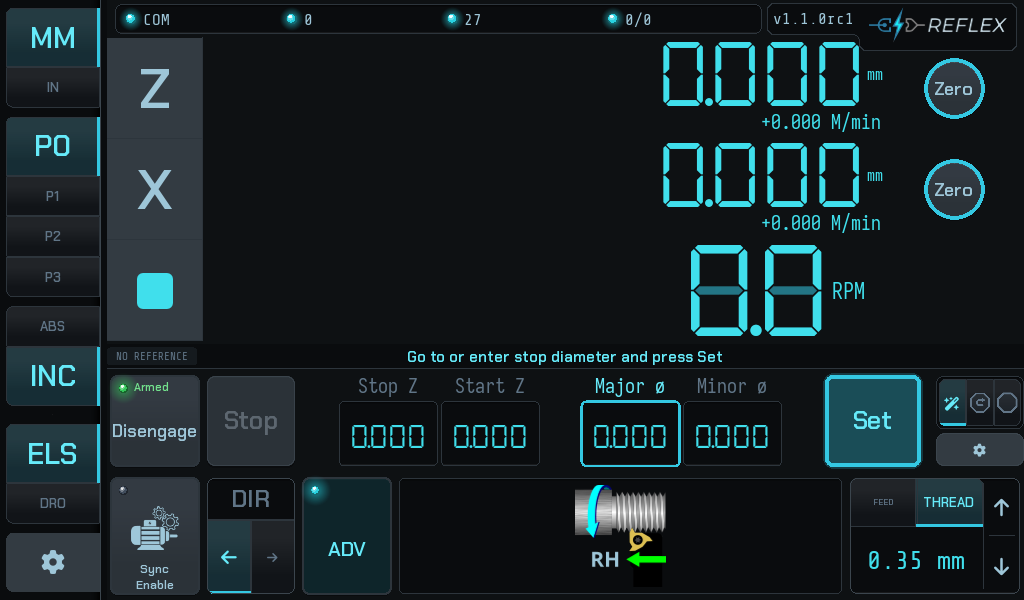
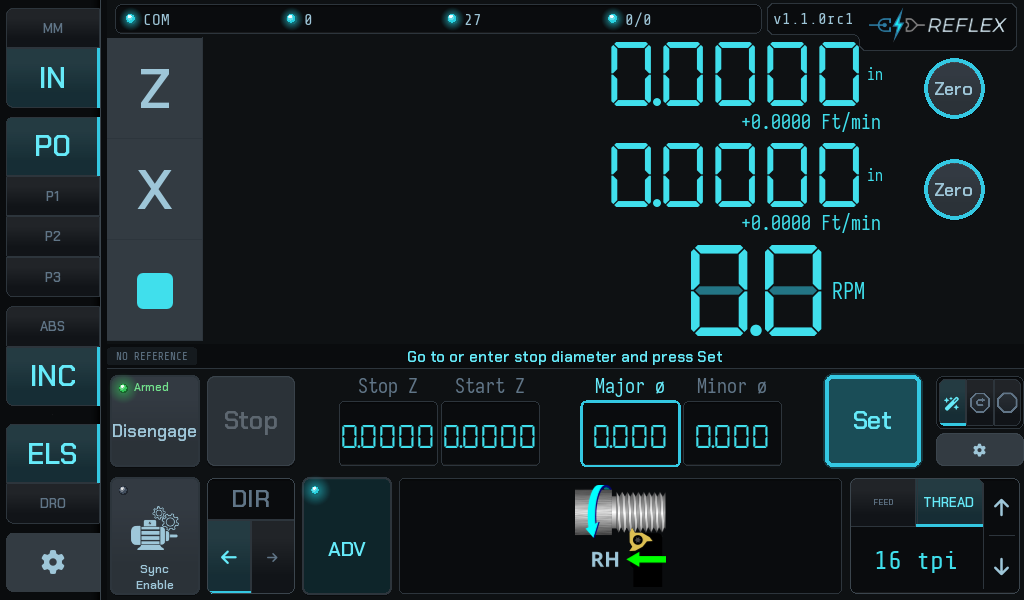
docs: render in inches, matching the machine
elspi has current_format IN; every screenshot was MM. Same shape as the
wizard mode and the pattern wand before it: this capture represents a
PROVISIONED LATHE, and every setting it does not name arrives as a class
default nobody chose. current_format defaults to MM.

The feed tables move with the units -- an inch DRO over a metric pitch is
nobody's machine. 16 TPI, the thread the belt-off verification run cut;
0.005 in/rev for the feed frame.

TWO LATENT BUGS FELL OUT OF THE SWITCH, both invisible while the display
happened to be metric:

* `mm_per_step = fsm.steps_to_display(1)` is not millimetres. It returns
  DISPLAY units, so under inches `STEP_OVER_MM / mm_per_step` computed a
  step count 25.4x too large, and the offset frames rendered "Widened by:
  0.0500 in" -- 0.800 of a pitch, illustrating the bound instead of the
  ordinary case.
* `PITCH_MM = 1.5` was pinned to Thread MM index 8. The rig now cuts 16
  TPI (1.5875 mm), so the constant was wrong the moment the table
  changed, and it fed the strip frame's pitch fraction.

Both are gone rather than converted. A thread-phase offset IS a fraction
of a pitch -- that is what the firmware holds and what the chip shows --
so the rig's step-over is now STEP_OVER_FRACTION = 0.032, unit-free.
0.002 in at 16 TPI. Neither conflation can return, because there is no
longer a unit to get wrong.

Prose follows the frames: numbers QUOTED from a screenshot were updated,
[…]

diff --git a/ui/previews/preview_walkthrough_shots.py b/ui/previews/preview_walkthrough_shots.py
@@ -102,8 +102,20 @@ AXIS_NAMES = ("Z", "X", "S")
 # 1/2-1/3-1/4 pitch these shots used to render: those are multi-start amounts,
 # most of the way round to the next groove, and the framing they came from was
 # corrected 2026-08-23.
-STEP_OVER_MM = 0.05
-PITCH_MM = 1.5             # the rig's own thread pitch, set in main() below
+# The rig's step-over, AS A FRACTION OF ONE PITCH. Unit-free on purpose: a
+# thread-phase offset is a fraction of a pitch, which is what the firmware holds
+# and what the chip shows, so nothing here has to know whether the machine is
+# displaying millimetres or inches.
+#
+# It used to be STEP_OVER_MM = 0.05 alongside PITCH_MM = 1.5, and both were
+# wrong the moment anything changed. `steps_to_display` returns DISPLAY units,
+# so dividing a millimetre constant by it computed a step count 25.4x too large
+# under inches; and PITCH_MM was pinned to a metric feed table the rig no longer
+# uses. Neither could be noticed while the display happened to be metric.
+#
+# 0.032 of a pitch is 0.002 in at 16 TPI -- an ordinary widening step-over, and
+# small enough that the frames illustrate the normal case rather than the bound.
+STEP_OVER_FRACTION = 0.032
 Z_BASELINE = 12000         # arbitrary but realistic raw encoder counts
 Z_COUNTS_PER_MM = 200      # elspi's Z scale: one count is 5 um
 SPINDLE_BASELINE = 8192
@@ -289,7 +301,7 @@ def section_strip():
     settle()
     shot("wt_gutter_baseline", "before any offset: reference chip only")
 
-    set_strip_offset(2 * STEP_OVER_MM / PITCH_MM)
+    set_strip_offset(2 * STEP_OVER_FRACTION)
     settle()
     record("advanced-bar status gutter",
            phase_offset_text=app.els_uic.phase_offset_text,
@@ -638,11 +650,14 @@ def section_phase_offset():
         print(f"  REFUSED [{tag}] {popup.message!r}")
 
     pitch = fsm.thread_pitch_steps()
-    mm_per_step = fsm.steps_to_display(1)
-    step = int(round(STEP_OVER_MM / mm_per_step)) if mm_per_step else 1
+    # STEPS, from a fraction of the pitch -- no unit conversion, so this cannot
+    # drift when the display units change. The distance is derived FROM the
+    # step count for printing, not the other way round.
+    step = max(1, int(round(pitch * STEP_OVER_FRACTION)))
     print(f"  is_threading={app.els_uic.is_threading}  "
-          f"thread pitch={pitch:.1f} steps  {STEP_OVER_MM} mm step-over = "
-          f"{step} steps")
+          f"thread pitch={pitch:.1f} steps  step-over "
+          f"{STEP_OVER_FRACTION:.3f} x pitch = {step} steps = "
+          f"{fsm.steps_to_display(step):.4f} display units")
 
     pop = PhaseOffsetPopup()
     pop.open()
@@ -671,7 +686,8 @@ def section_phase_offset():
     pop._refresh_total()
     pop.entry = float(fsm.steps_to_display(step))
     settle(6)
-    record(f"offset / entry, groove widened by {STEP_OVER_MM} mm",
+    record(f"offset / entry, groove widened by "
+           f"{STEP_OVER_FRACTION:.3f} x pitch",
            state=pop.state, total=pop.total_text, fraction=pop.fraction_text,
            entry_text=pop.entry_text, message=pop.message)
     shot("wt_offset_entry_total")
@@ -1072,7 +1088,16 @@ def _arm(_dt):
     app.servo.leadScrewPitchSteps = 2000
     # 1.50 mm pitch from the real THREAD_MM table: 600 leadscrew steps to the
     # pitch, so a 0.05 mm step-over is exactly 20 steps.
-    els_bar.set_feed_ratio("Thread MM", 8)
+    # INCHES, matching the machine and the README captures -- the guide uses
+    # frames from both and must not mix units. 16 TPI (Thread IN index 9),
+    # the thread the belt-off verification run cut.
+    #
+    # The rig's step-over is a FRACTION OF PITCH (STEP_OVER_FRACTION), so it
+    # does not care what the display units are -- which is the point, since a
+    # millimetre constant divided by steps_to_display() silently became 25.4x
+    # too large the first time this ran in inches.
+    app.formats.current_format = "IN"
+    els_bar.set_feed_ratio("Thread IN", 9)
 
     def _stoponly(_d):
         # AFTER the mode swap mounts the bar. Stop-only is the mode the machine

diff --git a/ui/scripts/capture_readme_screenshots.py b/ui/scripts/capture_readme_screenshots.py
@@ -421,7 +421,9 @@ def _capture(_dt):
         # setter so the pitch display, the ratio and is_threading all follow.
         _set_mode(bar, wizard=False, retract=False)
         home = app.manager.get_screen("home")
-        home.els_bar.set_feed_ratio("Feed MM", 6)
+        # 0.005 in/rev -- an ordinary finishing feed. Imperial table,
+        # because an inch DRO over a metric feed rate is nobody's machine.
+        home.els_bar.set_feed_ratio("Feed IN", 4)
         _settle()
         assert not app.els_uic.is_threading, (
             "feed frame is still in a THREADING table -- is_threading gates "
@@ -430,7 +432,9 @@ def _capture(_dt):
 
         # Back to a threading table: later frames and any future step should
         # not inherit feed mode from this one.
-        home.els_bar.set_feed_ratio("Thread MM", 6)
+        # Back to a threading table: 16 TPI, the thread the belt-off
+        # verification run cut on the real machine.
+        home.els_bar.set_feed_ratio("Thread IN", 9)
         _settle()
         assert app.els_uic.is_threading, "failed to return to a threading table"
 
@@ -486,6 +490,10 @@ def _arm(_dt):
     # default True and asserting the button is gone PROVES the use-case gate
     # instead of hiding behind the setting.
     app.formats.show_wizard = True
+
+    # INCHES, matching the machine (elspi: current_format IN). The default is
+    # MM, and a default is not a decision -- see the note above.
+    app.formats.current_format = "IN"
     # Name representative axes (a fresh config seeds 4 unnamed "?" axes).
     for i, name in enumerate(AXIS_NAMES):
         if i < len(app.axes):
@@ -499,6 +507,9 @@ def _arm(_dt):
     # Navigate to home, switch to ELS mode, expand the advanced bar.
     app.manager.goto("home")
     app.set_mode(MODE_ELS)
+    # A pitch every frame can show: 16 TPI. Set before the first capture so the
+    # headline shots do not carry a fresh config's metric default.
+    app.manager.get_screen("home").els_bar.set_feed_ratio("Thread IN", 9)
     app.manager.get_screen("home").els_bar.enable_advanced = True
     # Mode swap is deferred via Clock (see HomePage.change_mode); give it time
     # for the ELS layout to mount before capturing. The modes themselves are

diff --git a/docs/guide/picking-up-a-thread.md b/docs/guide/picking-up-a-thread.md
@@ -65,9 +65,9 @@ Two conditions have to hold at once before **Confirm** arms:
 - **Z holds** within tolerance of the position you seated it at.
 - **The spindle is still** — shown as a settling percentage while it decays.
 
-The readout gives both live, in your display units. A ±0.015 mm tolerance on a
-200 count/mm scale is three counts: this is a tight check, and it is meant to
-be. From the seat onward, the carriage position *is* the reference.
+The readout gives both live, in your display units. The tolerance shown —
+±0.0006 in here — is **three scale counts**: this is a tight check, and it is
+meant to be. From the seat onward, the carriage position *is* the reference.
 
 ## 3 — If the carriage drifts
 
@@ -79,6 +79,9 @@ cut. If Z leaves tolerance, the screen switches to a re-seat:
 > The carriage has crept off its seated position. Nudge it **back** by hand —
 > the **anti-cutting** direction, the same way you seated it — until it seats
 > firmly, then press Re-seated.
+
+The frame above shows +0.0022 in of drift against a ±0.0006 in tolerance: under
+three thousandths, and already too much.
 
 A re-seat that lands within tolerance returns you to alignment, and it has
 positively proven the Z chain is reading — which is worth something on its own.

diff --git a/docs/guide/widening-a-groove.md b/docs/guide/widening-a-groove.md
@@ -17,8 +17,9 @@ rows at the bottom of the ELS settings, beside
 ## What it does
 
 The controller carries a **thread-phase offset**: a distance, expressed along
-the thread, that shifts where the tool enters the helix. Set 0.05 mm and the
-next pass cuts 0.05 mm along from the original groove, widening it by that much.
+the thread, that shifts where the tool enters the helix. Set 0.002 in and the
+next pass cuts 0.002 in along from the original groove, widening it by that
+much.
 
 Every step-over goes the same way — you open one side of the groove and keep
 going — so the running total on screen **is the widening**: the distance the

diff --git a/docs/setup/axes-and-scales.md b/docs/setup/axes-and-scales.md
@@ -57,8 +57,8 @@ the label on the scale. A label error and a wrong ratio look identical on
 screen: both give a readout that moves smoothly and reads plausibly, and they
 differ only by a factor you will notice at the part.
 
-A long travel makes the error obvious — over 10 mm a 5% error is 0.5 mm, which
-no dial indicator will hide.
+A long travel makes the error obvious — over half an inch, a 5% error is
+0.025 in, which no dial indicator will hide.
 
 !!! tip "Direction is part of the calibration"
     A scale reading the right magnitude in the wrong direction produces a

diff --git a/docs/guide/feeding-to-a-shoulder.md b/docs/guide/feeding-to-a-shoulder.md
@@ -5,9 +5,9 @@ machine does, and it is worth doing once before you thread anything.
 
 ![Stop-only in FEED mode](../screenshots/home_els_feed.png)
 
-`FEED` is selected rather than `THREAD`, the rate reads in mm per revolution,
-and the illustration shows a turning tool rather than a thread. Everything else
-behaves the same way.
+`FEED` is selected rather than `THREAD`, the rate reads in distance per
+revolution rather than a pitch, and the illustration shows a turning tool rather
+than a thread. Everything else behaves the same way.
 
 ## What you are asking for
 
